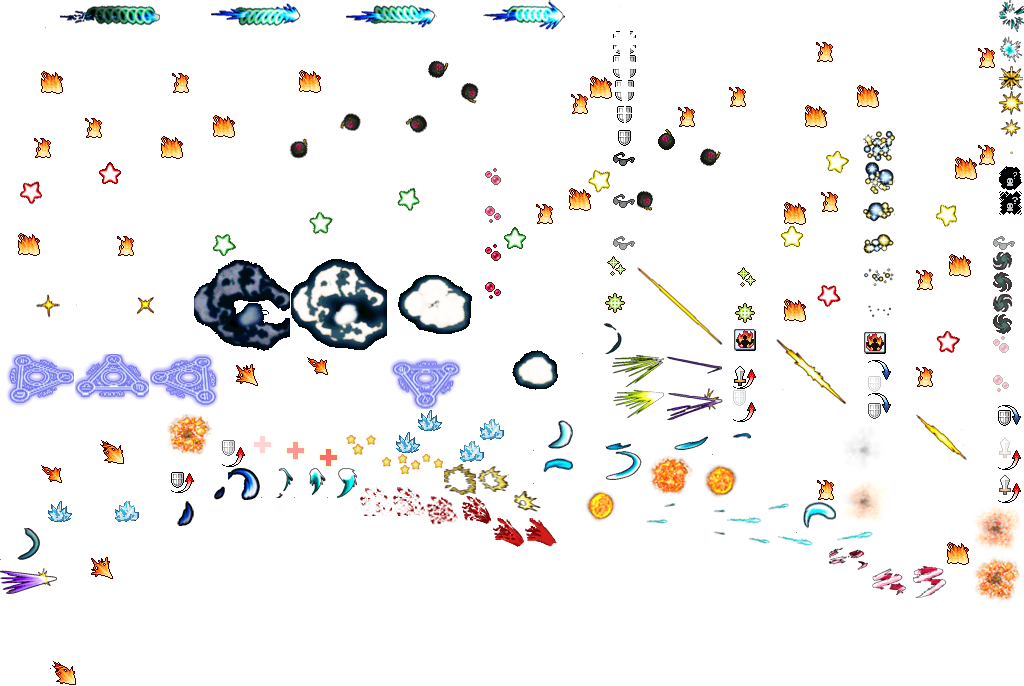
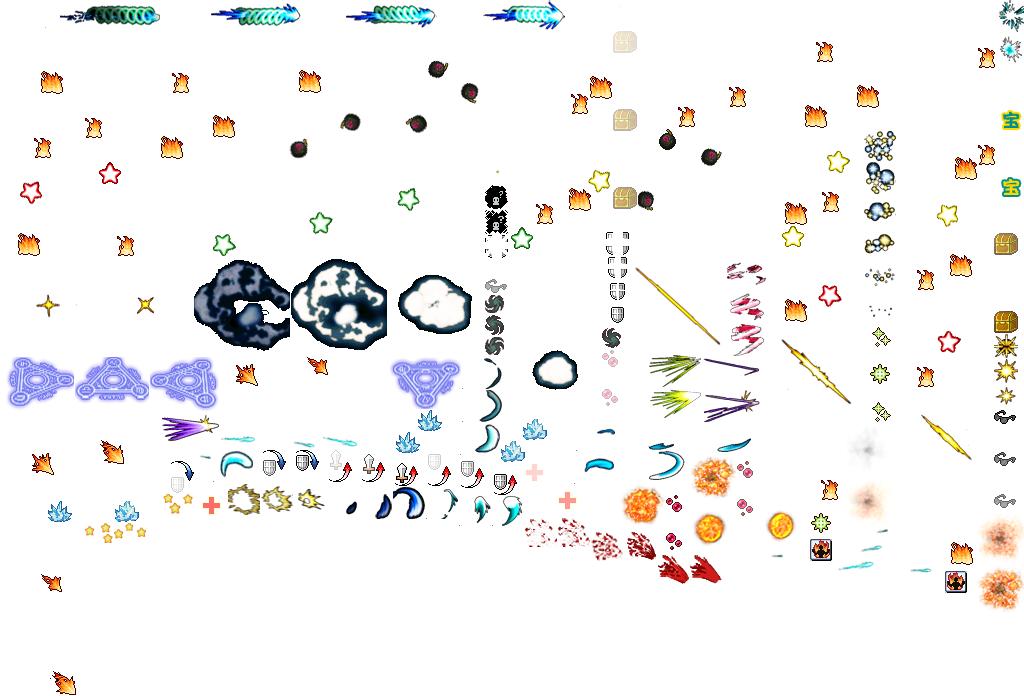
增加了获得宝物动画效果

diff --git a/Gdx002/src/com/bsu/tools/GAC.java b/Gdx002/src/com/bsu/tools/GAC.java
@@ -65,13 +65,17 @@ public class GAC {
 	 * @return	返回一段表现发现宝藏的动画
 	 */
 	public Animation getTreasure(){
-		TextureRegion[] tr = new TextureRegion[4];
-		tr[0] = effect_split[7][6];
-		tr[1] = effect_split[6][6];
-		tr[2] = effect_split[5][6];
-		tr[3] = effect_split[4][6];
+		Array<TextureRegion> tr = new Array<TextureRegion>();
+		tr.add(texture_effect_skills.findRegion("box",6));
+		tr.add(texture_effect_skills.findRegion("box",7));
+		tr.add(texture_effect_skills.findRegion("box",6));
+		tr.add(texture_effect_skills.findRegion("box",7));
+		tr.add(texture_effect_skills.findRegion("box",1));
+		tr.add(texture_effect_skills.findRegion("box",2));
+		tr.add(texture_effect_skills.findRegion("box",3));
+		tr.add(texture_effect_skills.findRegion("box",4));
+		tr.add(texture_effect_skills.findRegion("box",5));
 		Animation ani = new Animation(0.1f,tr);
-		ani.setPlayMode(Animation.NORMAL);
 		return ani;
 	}
 	

diff --git a/Gdx002/src/com/bsu/obj/Commander.java b/Gdx002/src/com/bsu/obj/Commander.java
@@ -329,8 +329,8 @@ public class Commander {
 						
 					}
 					uita.playTreasure(v.x*GC.map_box_value, v.y*GC.map_box_value);	//播放发现宝藏动画
+					mb.box_array.removeValue(obj, true);							//将该宝箱从地图上移除
 					
-//					mb.box_array.removeValue(obj, true);							//将该宝箱从地图上移除
 				}
 			}
 		}

diff --git a/Gdx002/src/com/bsu/obj/UITopAnimation.java b/Gdx002/src/com/bsu/obj/UITopAnimation.java
@@ -20,7 +20,7 @@ public class UITopAnimation extends Actor{
 	private boolean flag_play_treasure = false;		//设置动画是否播放标志
 	
 	public UITopAnimation(){
-		ani_treasure = GAC.getInstance().getSkillObjectEffect(1);
+		ani_treasure = GAC.getInstance().getTreasure();
 	}
 	private Vector2 pos_treasure = new Vector2();
 	/**
